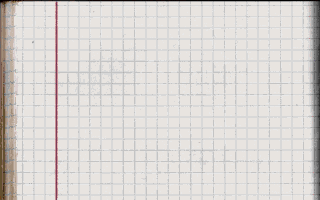
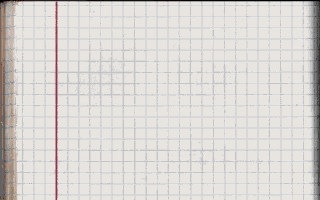
Visual tweaks to SoldierDiary screens

Changed region(s): [[0.0, 0.48, 0.0312, 1.0], [0.0, 0.0, 0.0312, 0.03]]

diff --git a/src/Basescape/SoldierDiaryPerformanceState.cpp b/src/Basescape/SoldierDiaryPerformanceState.cpp
@@ -21,6 +21,7 @@
 #include <sstream>
 #include "../Engine/Game.h"
 #include "../Mod/Mod.h"
+#include "../Mod/RuleInterface.h"
 #include "../Engine/LocalizedText.h"
 #include "../Engine/Options.h"
 #include "../Engine/SurfaceSet.h"
@@ -57,7 +58,10 @@ SoldierDiaryPerformanceState::SoldierDiaryPerformanceState(Base *base, size_t so
 	}
 
 	// Create objects
-	_window = new Window(this, 320, 200, 0, 0);
+	if (_game->getMod()->getStalkMode())
+		_window = new Surface(320, 200, 0, 0);
+	else
+		_window = new Window(this, 320, 200, 0, 0);
 	_btnPrev = new TextButton(28, 14, 8, 8);
 	_btnNext = new TextButton(28, 14, 284, 8);
 	_btnKills = new TextButton(70, 16, 8, 176);
@@ -106,7 +110,14 @@ SoldierDiaryPerformanceState::SoldierDiaryPerformanceState(Base *base, size_t so
 	centerAllSurfaces();
 
 	// Set up objects
-	setWindowBackground(_window, "soldierDiaryPerformance");
+	if (_game->getMod()->getStalkMode())
+	{
+		auto bgImageName = _game->getMod()->getInterface("soldierDiaryPerformance")->getBackgroundImage();
+		auto bgImage = _game->getMod()->getSurface(bgImageName);
+		bgImage->blitNShade(_window, 0, 0);
+	}
+	else
+		setWindowBackground((Window *)_window, "soldierDiaryPerformance");
 
 	_btnOk->setText(tr("STR_OK"));
 	_btnOk->onMouseClick((ActionHandler)&SoldierDiaryPerformanceState::btnOkClick);

diff --git a/src/Basescape/SoldierDiaryOverviewState.cpp b/src/Basescape/SoldierDiaryOverviewState.cpp
@@ -22,6 +22,7 @@
 #include "SoldierInfoState.h"
 #include <sstream>
 #include "../Mod/Mod.h"
+#include "../Mod/RuleInterface.h"
 #include "../Engine/Game.h"
 #include "../Engine/LocalizedText.h"
 #include "../Engine/Options.h"
@@ -58,7 +59,10 @@ SoldierDiaryOverviewState::SoldierDiaryOverviewState(Base *base, size_t soldierI
 	}
 
 	// Create objects
-	_window = new Window(this, 320, 200, 0, 0);
+	if (_game->getMod()->getStalkMode())
+		_window = new Surface(320, 200, 0, 0);
+	else
+		_window = new Window(this, 320, 200, 0, 0);
 	_btnKills = new TextButton(70, 16, 8, 176);
 	_btnMissions = new TextButton(70, 16, 86, 176);
 	_btnCommendations = new TextButton(70, 16, 164, 176);
@@ -103,7 +107,14 @@ SoldierDiaryOverviewState::SoldierDiaryOverviewState(Base *base, size_t soldierI
 	centerAllSurfaces();
 
 	// Set up objects
-	setWindowBackground(_window, "soldierDiary");
+	if (_game->getMod()->getStalkMode())
+	{
+		auto bgImageName = _game->getMod()->getInterface("soldierDiary")->getBackgroundImage();
+		auto bgImage = _game->getMod()->getSurface(bgImageName);
+		bgImage->blitNShade(_window, 0, 0);
+	}
+	else
+		setWindowBackground((Window*)_window, "soldierDiary");
 
 	_btnOk->setText(tr("STR_OK"));
 	_btnOk->onMouseClick((ActionHandler)&SoldierDiaryOverviewState::btnOkClick);

diff --git a/src/Basescape/SoldierDiaryPerformanceState.h b/src/Basescape/SoldierDiaryPerformanceState.h
@@ -49,7 +49,7 @@ private:
 	std::vector<Soldier*> *_list;
 
 	TextButton *_btnOk, *_btnPrev, *_btnNext, *_btnKills, *_btnMissions, *_btnCommendations;
-	Window *_window;
+	Surface *_window;
 	Text *_txtTitle, *_txtMedalName, *_txtMedalLevel, *_txtMedalInfo;
 	TextList *_lstPerformance, *_lstKillTotals, *_lstMissionTotals, *_lstCommendations;
 	std::vector<std::string> _commendationsListEntry;

diff --git a/src/Basescape/SoldierDiaryOverviewState.h b/src/Basescape/SoldierDiaryOverviewState.h
@@ -45,7 +45,7 @@ private:
 	std::vector<Soldier*> *_list;
 
 	TextButton *_btnOk, *_btnPrev, *_btnNext, *_btnKills, *_btnMissions, *_btnCommendations;
-	Window *_window;
+	Surface *_window;
 	Text *_txtTitle, *_txtMission, *_txtRating, *_txtDate, *_txtDeathTitle, *_txtDeathInfo, *_txtDeathDate;
 	TextList *_lstDiary;
 
